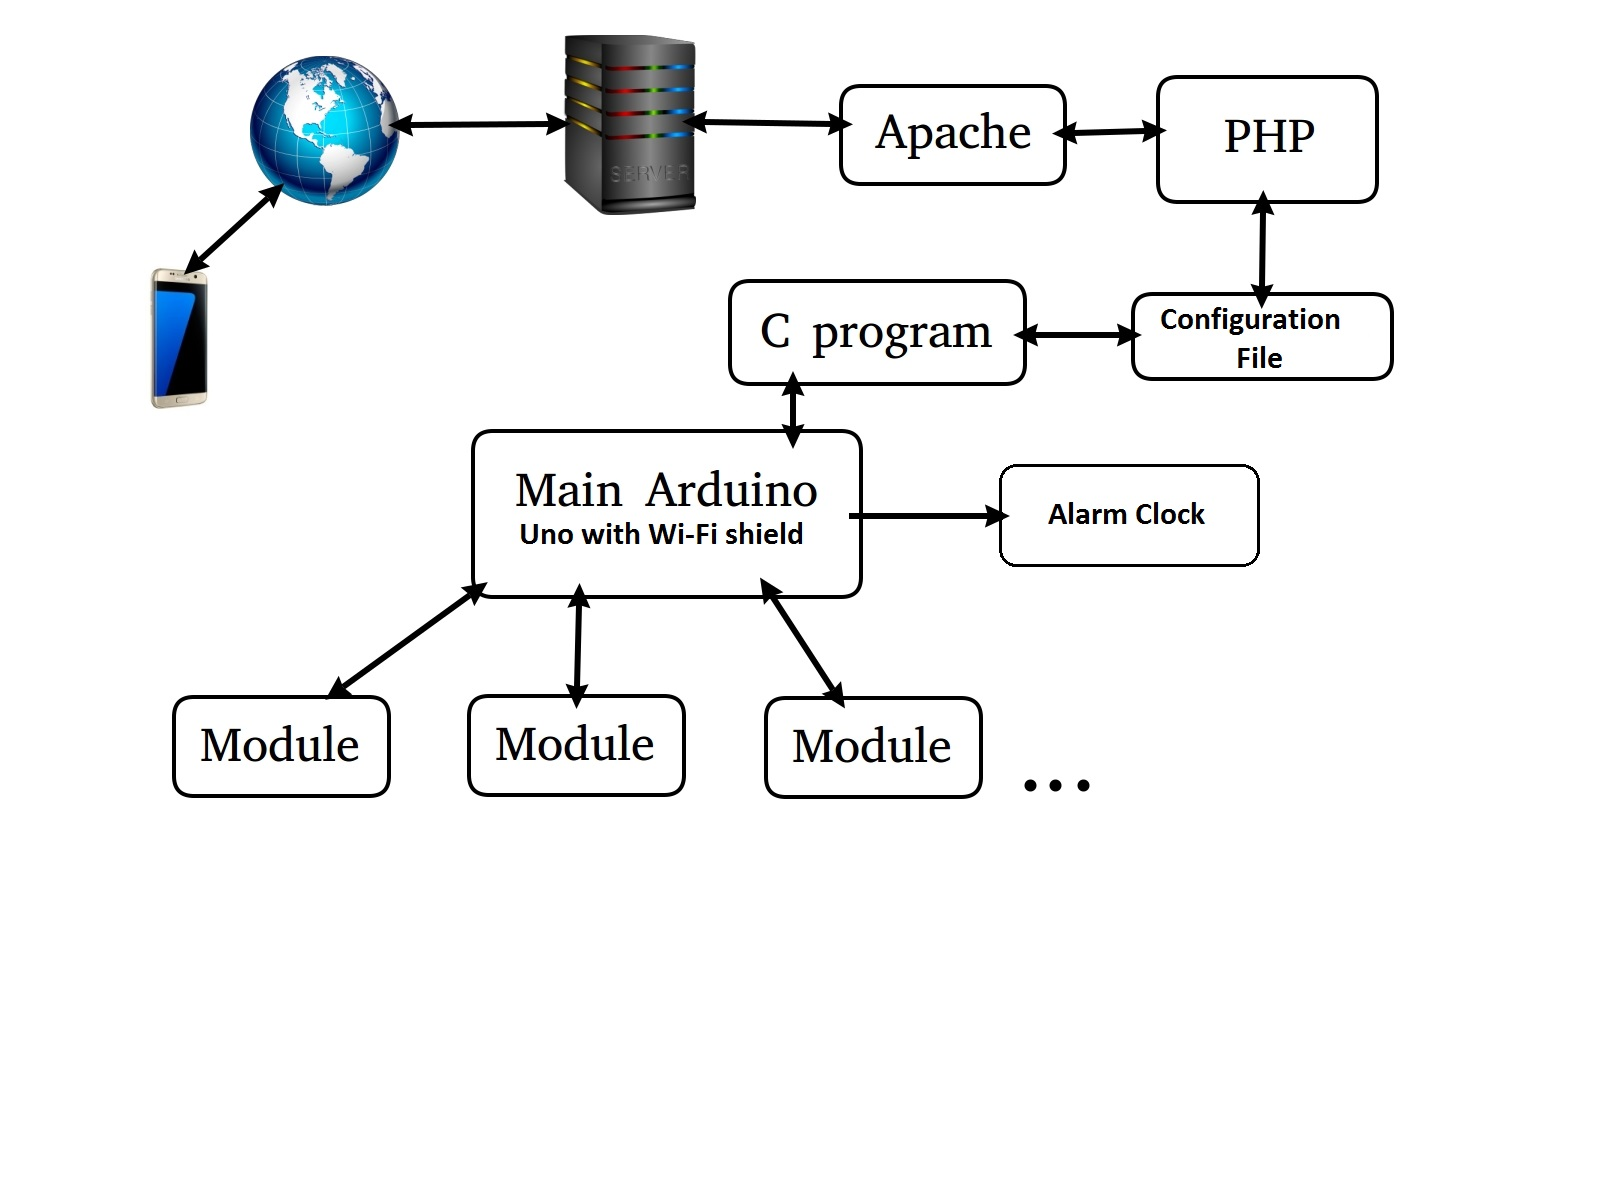
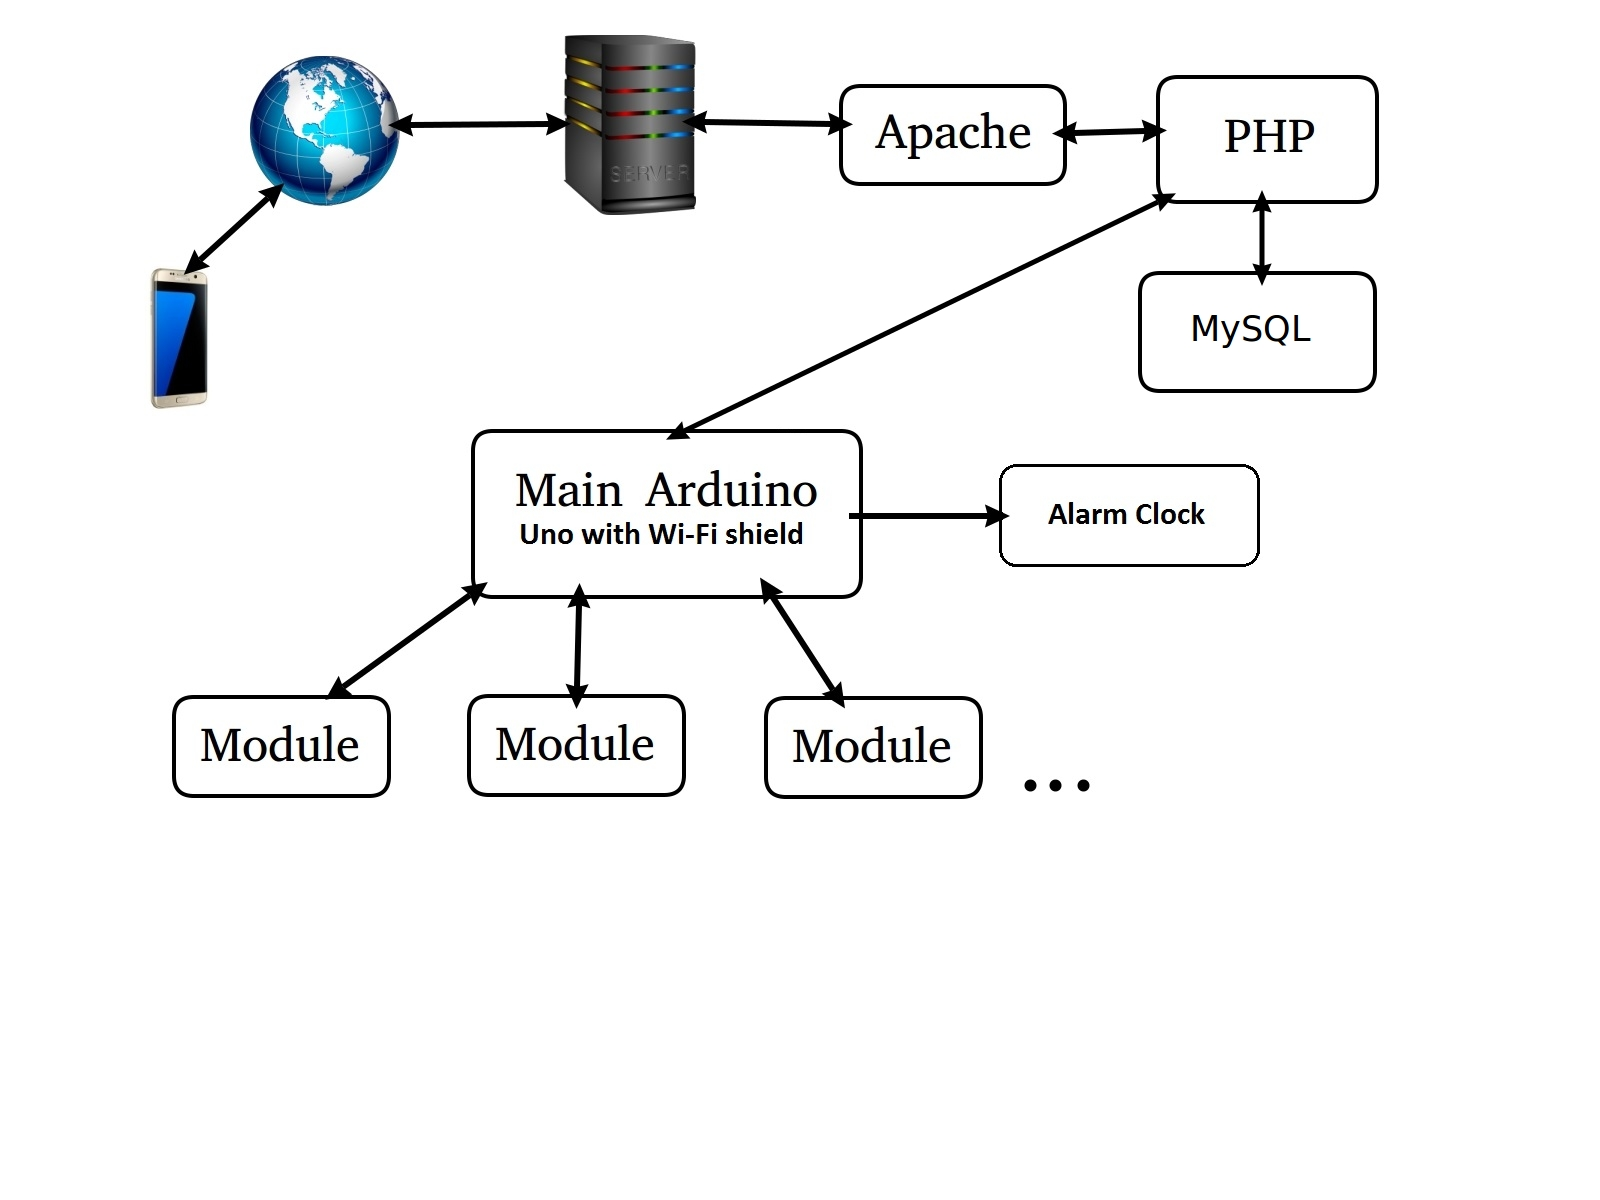
Поправка по схемата и първи стъпки по реалната програма.

Changed region(s): [[0.4062, 0.2158, 0.875, 0.37], [0.6875, 0.1542, 0.75, 0.185], [0.6562, 0.185, 0.6875, 0.2158]]

diff --git a/code/serial.php b/code/serial.php
@@ -1,0 +1,9 @@
+<?php
+$ser_port_opt=array('baud'=>9600, 'bits'=>8, 'stop'=>1, 'parity'=>0);
+$arduino=dio_open('/dev/ttyACM0', O_RDWR);
+dio_tcsetattr($arduino, $ser_port_opt);
+dio_write($arduino, 'Q');
+usleep(10000);
+echo dio_read($arduino, 10);
+dio_close($arduino);
+?>
